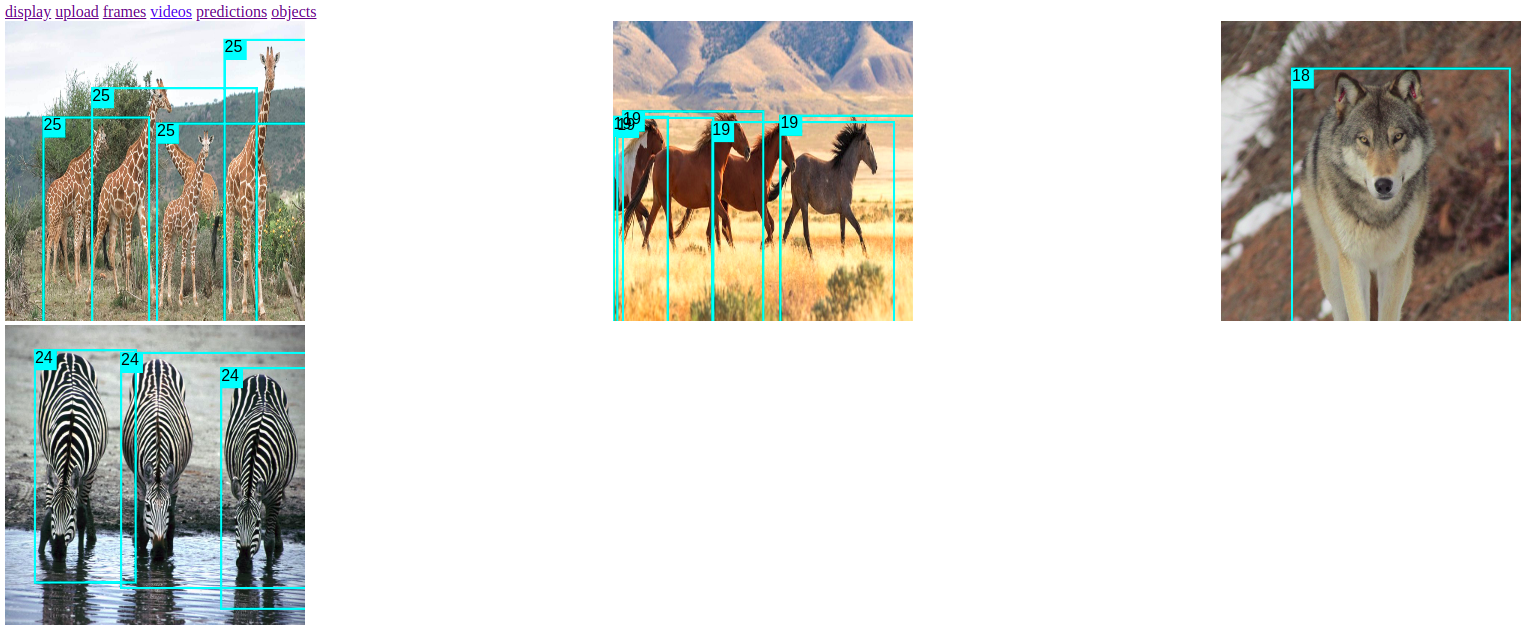
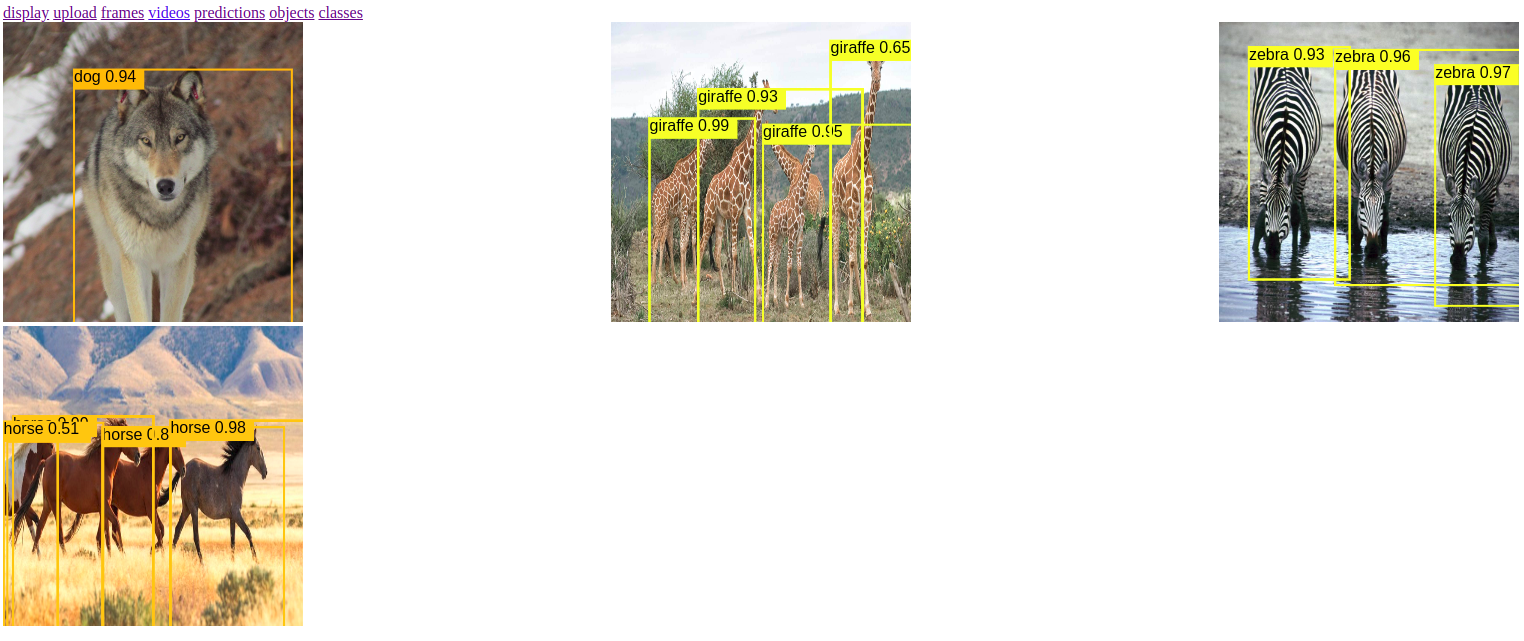
Add class API

diff --git a/back/classes/model-datastore-class.js b/back/classes/model-datastore-class.js
@@ -1,0 +1,172 @@
+'use strict'
+
+const { Datastore } = require('@google-cloud/datastore')
+const config = require('../../config')
+const path = require('path')
+const ds = new Datastore({
+  projectId: config.get('PROJECT_ID'),
+  keyFilename: path.join(__dirname, '..', '..', config.get('GOOGLE_APPLICATION_CREDENTIALS'))
+})
+const kind = 'Class'
+
+// Translates from Datastore's entity format to
+// the format expected by the application.
+//
+// Datastore format:
+//   {
+//     key: [kind, id],
+//     data: {
+//       property: value
+//     }
+//   }
+//
+// Application format:
+//   {
+//     id: id,
+//     property: value
+//   }
+function fromDatastore (obj) {
+  obj.id = obj[Datastore.KEY].id
+  return obj
+}
+
+// Translates from the application's format to the datastore's
+// extended entity property format. It also handles marking any
+// specified properties as non-indexed. Does not translate the key.
+//
+// Application format:
+//   {
+//     id: id,
+//     property: value,
+//     unindexedProperty: value
+//   }
+//
+// Datastore extended format:
+//   [
+//     {
+//       name: property,
+//       value: value
+//     },
+//     {
+//       name: unindexedProperty,
+//       value: value,
+//       excludeFromIndexes: true
+//     }
+//   ]
+function toDatastore (obj, nonIndexed) {
+  nonIndexed = nonIndexed || []
+  const results = []
+  Object.keys(obj).forEach(k => {
+    if (obj[k] === undefined) {
+      return
+    }
+    results.push({
+      name: k,
+      value: obj[k],
+      excludeFromIndexes: nonIndexed.indexOf(k) !== -1
+    })
+  })
+  return results
+}
+
+// Lists all classs in the Datastore sorted alphabetically by title.
+// The ``limit`` argument determines the maximum amount of results to
+// return per page. The ``token`` argument allows requesting additional
+// pages. The callback is invoked with ``(err, classs, nextPageToken)``.
+function list (limit, token, cb) {
+  const q = ds
+    .createQuery([kind])
+    .limit(limit)
+    .start(token)
+
+  ds.runQuery(q, (err, entities, nextQuery) => {
+    if (err) {
+      cb(err)
+      return
+    }
+    const hasMore =
+      nextQuery.moreResults !== Datastore.NO_MORE_RESULTS
+        ? nextQuery.endCursor
+        : false
+    cb(null, entities.map(fromDatastore), hasMore)
+  })
+}
+
+// Similar to ``list``, but only lists the classs created by the specified
+// user.
+// [START listby]
+function listBy (userId, limit, token, cb) {
+  const q = ds
+    .createQuery([kind])
+    .filter('createdById', '=', userId)
+    .limit(limit)
+    .start(token)
+
+  ds.runQuery(q, (err, entities, nextQuery) => {
+    if (err) {
+      cb(err)
+      return
+    }
+    const hasMore =
+      nextQuery.moreResults !== Datastore.NO_MORE_RESULTS
+        ? nextQuery.endCursor
+        : false
+    cb(null, entities.map(fromDatastore), hasMore)
+  })
+}
+// [END listby]
+
+// Creates a new class or updates an existing class with new data. The provided
+// data is automatically translated into Datastore format. The class will be
+// queued for background processing.
+function update (id, data, cb) {
+  let key
+  if (id) {
+    key = ds.key([kind, parseInt(id, 10)])
+  } else {
+    key = ds.key(kind)
+  }
+
+  const entity = {
+    key: key,
+    data: toDatastore(data, [])
+  }
+
+  ds.save(entity, err => {
+    data.id = entity.key.id
+    cb(err, err ? null : data)
+  })
+}
+
+function read (id, cb) {
+  const key = ds.key([kind, parseInt(id, 10)])
+  ds.get(key, (err, entity) => {
+    if (!err && !entity) {
+      err = {
+        code: 404,
+        message: 'Not found'
+      }
+    }
+    if (err) {
+      cb(err)
+      return
+    }
+    cb(null, fromDatastore(entity))
+  })
+}
+
+function _delete (id, cb) {
+  const key = ds.key([kind, parseInt(id, 10)])
+  ds.delete(key, cb)
+}
+
+module.exports = {
+  create: (data, cb) => {
+    update(null, data, cb)
+  },
+  read: read,
+  update: update,
+  delete: _delete,
+  list: list,
+  listBy: listBy
+}

diff --git a/back/classes/api-class.js b/back/classes/api-class.js
@@ -1,0 +1,111 @@
+'use strict'
+
+const express = require('express')
+const bodyParser = require('body-parser')
+const model = require('./model-datastore-class')
+const { sendUploadToGCS, multer } = require('../../utils/images')
+
+const router = express.Router()
+
+// Automatically parse request body as JSON
+router.use(bodyParser.json())
+
+router.use(require('../../utils/oauth2').router)
+
+/**
+ * GET /api/classs
+ *
+ * Retrieve a page of classs (up to ten at a time).
+ */
+router.get('/', (req, res, next) => {
+  model.list(10, req.query.pageToken, (err, entities, cursor) => {
+    if (err) {
+      next(err)
+      return
+    }
+    res.json({
+      items: entities,
+      nextPageToken: cursor
+    })
+  })
+})
+
+/**
+ * POST /api/classs
+ *
+ * Create a new class.
+ */
+router.post(
+  '/',
+  multer.single('file'),
+  sendUploadToGCS,
+  (req, res, next) => {
+    const data = { imageUrl: req.file.cloudStoragePublicUrl, predictions: null } // Predictions represents the object detected in the media
+    model.create(data, (err, entity) => {
+      if (err) {
+        next(err)
+        return
+      }
+      res.json(entity)
+    })
+  })
+
+/**
+ * GET /api/classs/:id
+ *
+ * Retrieve a class.
+ */
+router.get('/:class', (req, res, next) => {
+  model.read(req.params.class, (err, entity) => {
+    if (err) {
+      next(err)
+      return
+    }
+    res.json(entity)
+  })
+})
+
+/**
+ * PUT /api/classs/:id
+ *
+ * Update a class.
+ */
+router.put('/:class', (req, res, next) => {
+  model.update(req.params.class, req.body, (err, entity) => {
+    if (err) {
+      next(err)
+      return
+    }
+    res.json(entity)
+  })
+})
+
+/**
+ * DELETE /api/classs/:id
+ *
+ * Delete a class.
+ */
+router.delete('/:class', (req, res, next) => {
+  model.delete(req.params.class, err => {
+    if (err) {
+      next(err)
+      return
+    }
+    res.status(200).send('OK')
+  })
+})
+
+/**
+ * Errors on "/api/classs/*" routes.
+ */
+router.use((err, req, res, next) => {
+  // Format error and forward to generic error handler for logging and
+  // responding to the request
+  err.response = {
+    message: err.message,
+    internalCode: err.code
+  }
+  next(err)
+})
+
+module.exports = router

diff --git a/front/vision-client-frame.js b/front/vision-client-frame.js
@@ -29,6 +29,30 @@ class VisionClientFrame extends LitElement {
     `
   }
 
+  rainbow(n, maxLength) {
+      n = n * 240 / maxLength;
+      return 'hsl(' + n + ',100%,50%)';
+  }
+
+  perc2color(perc, min, max) {
+      let base = (max - min);
+
+      if (base == 0) { perc = 100; }
+      else {
+          perc = (perc - min) / base * 100;
+      }
+      let r, g, b = 0;
+      if (perc < 50) {
+          r = 255;
+          g = Math.round(5.1 * perc);
+      }
+      else {
+          g = 255;
+          r = Math.round(510 - 5.10 * perc);
+      }
+      let h = r * 0x10000 + g * 0x100 + b * 0x1;
+      return '#' + ('000000' + h.toString(16)).slice(-6);
+  }
 
   firstUpdated () {
     this.visionClientService.getPrediction(this.predictionId).then(prediction => {
@@ -55,19 +79,22 @@ class VisionClientFrame extends LitElement {
     ctx.textBaseline = 'top'
     ctx.drawImage(image, 0, 0, this.width, this.height)
 
-    this.objects.forEach(object => {
+    this.objects.forEach(async object => {
+      let boxText
+      await this.visionClientService.getClass(object['detection_classes'])
+      .then(name => boxText = `${name['name']} ${object['detection_scores'].toFixed(2)}`)
+
       const ymin = object['detection_boxes'][0] * this.height
       const xmin = object['detection_boxes'][1] * this.width
       const ymax = object['detection_boxes'][2] * this.height
       const xmax = object['detection_boxes'][3] * this.width
-      const boxColor = '#00FFFF'
+      const boxColor = this.rainbow(object['detection_classes'], 100) // this.perc2color(object['detection_classes'], 0, 100)
       // Draw the bounding box.
       ctx.strokeStyle = boxColor
       ctx.lineWidth = 2
       ctx.strokeRect(xmin, ymin, xmax, ymax)
       // Draw the label background.
       ctx.fillStyle = boxColor
-      const boxText = `${object['detection_classes']} - ${object['detection_scores'].toFixed(2)}`
       const textWidth = ctx.measureText(boxText).width
       const textHeight = parseInt(font, 10) // base 10
       ctx.fillRect(xmin, ymin, textWidth + 8, textHeight + 4)

diff --git a/front/services/vision-client-service.js b/front/services/vision-client-service.js
@@ -20,6 +20,10 @@ export default class VisionClientService {
     return fetch(`${this.backendHost}/api/objects/${id}`).then(r => r.json())
   }
 
+  getClass (id) {
+    return fetch(`${this.backendHost}/api/classes/${id}`).then(r => r.json())
+  }
+
   createVideo (file) {
     const formData = new FormData()
     formData.append('file', file)

diff --git a/app.js b/app.js
@@ -53,6 +53,9 @@ app.use('/api/predictions', require('./back/predictions/api-prediction'))
 // Objects
 app.use('/api/objects', require('./back/objects/api-object'))
 
+// Classes
+app.use('/api/classes', require('./back/classes/api-class'))
+
 var pathRoot = `${__dirname}/front/build`
 
 app.use('/', express.static(pathRoot))

diff --git a/front/vision-client.js b/front/vision-client.js
@@ -55,6 +55,7 @@ class VisionClient extends LitElement {
     <a href="/api/videos">videos</a>
     <a href="/api/predictions">predictions</a>
     <a href="/api/objects">objects</a>
+    <a href="/api/classes">classes</a>
       ${this.renderPage()}`
   }
 }

diff --git a/cloud_functions/main.py b/cloud_functions/main.py
@@ -50,9 +50,6 @@ def process_data(event, context):
     query.add_filter('predictions', '=', None)
     files_to_process = list(query.fetch())
 
-    query_classes = client.query(kind='Class')
-    classes = list(query_classes.fetch())
-
     # Iterate through the media to process
     # TODO: will break if trying to process a video
     for file in files_to_process:
@@ -92,7 +89,7 @@ def process_data(event, context):
         # Assuming there is only one prediction possible even though there is a 's' at predictions ?
         for i in range(int(result['predictions'][0]['num_detections'])):
             object_detected = dict()
-            object_detected['detection_classes'] = classes[int(result['predictions'][0]['detection_classes'][i]) - 1]['name']
+            object_detected['detection_classes'] = int(result['predictions'][0]['detection_classes'][i])
             object_detected['detection_boxes'] = result['predictions'][0]['detection_boxes'][i]
             object_detected['detection_scores'] = result['predictions'][0]['detection_scores'][i]
 
